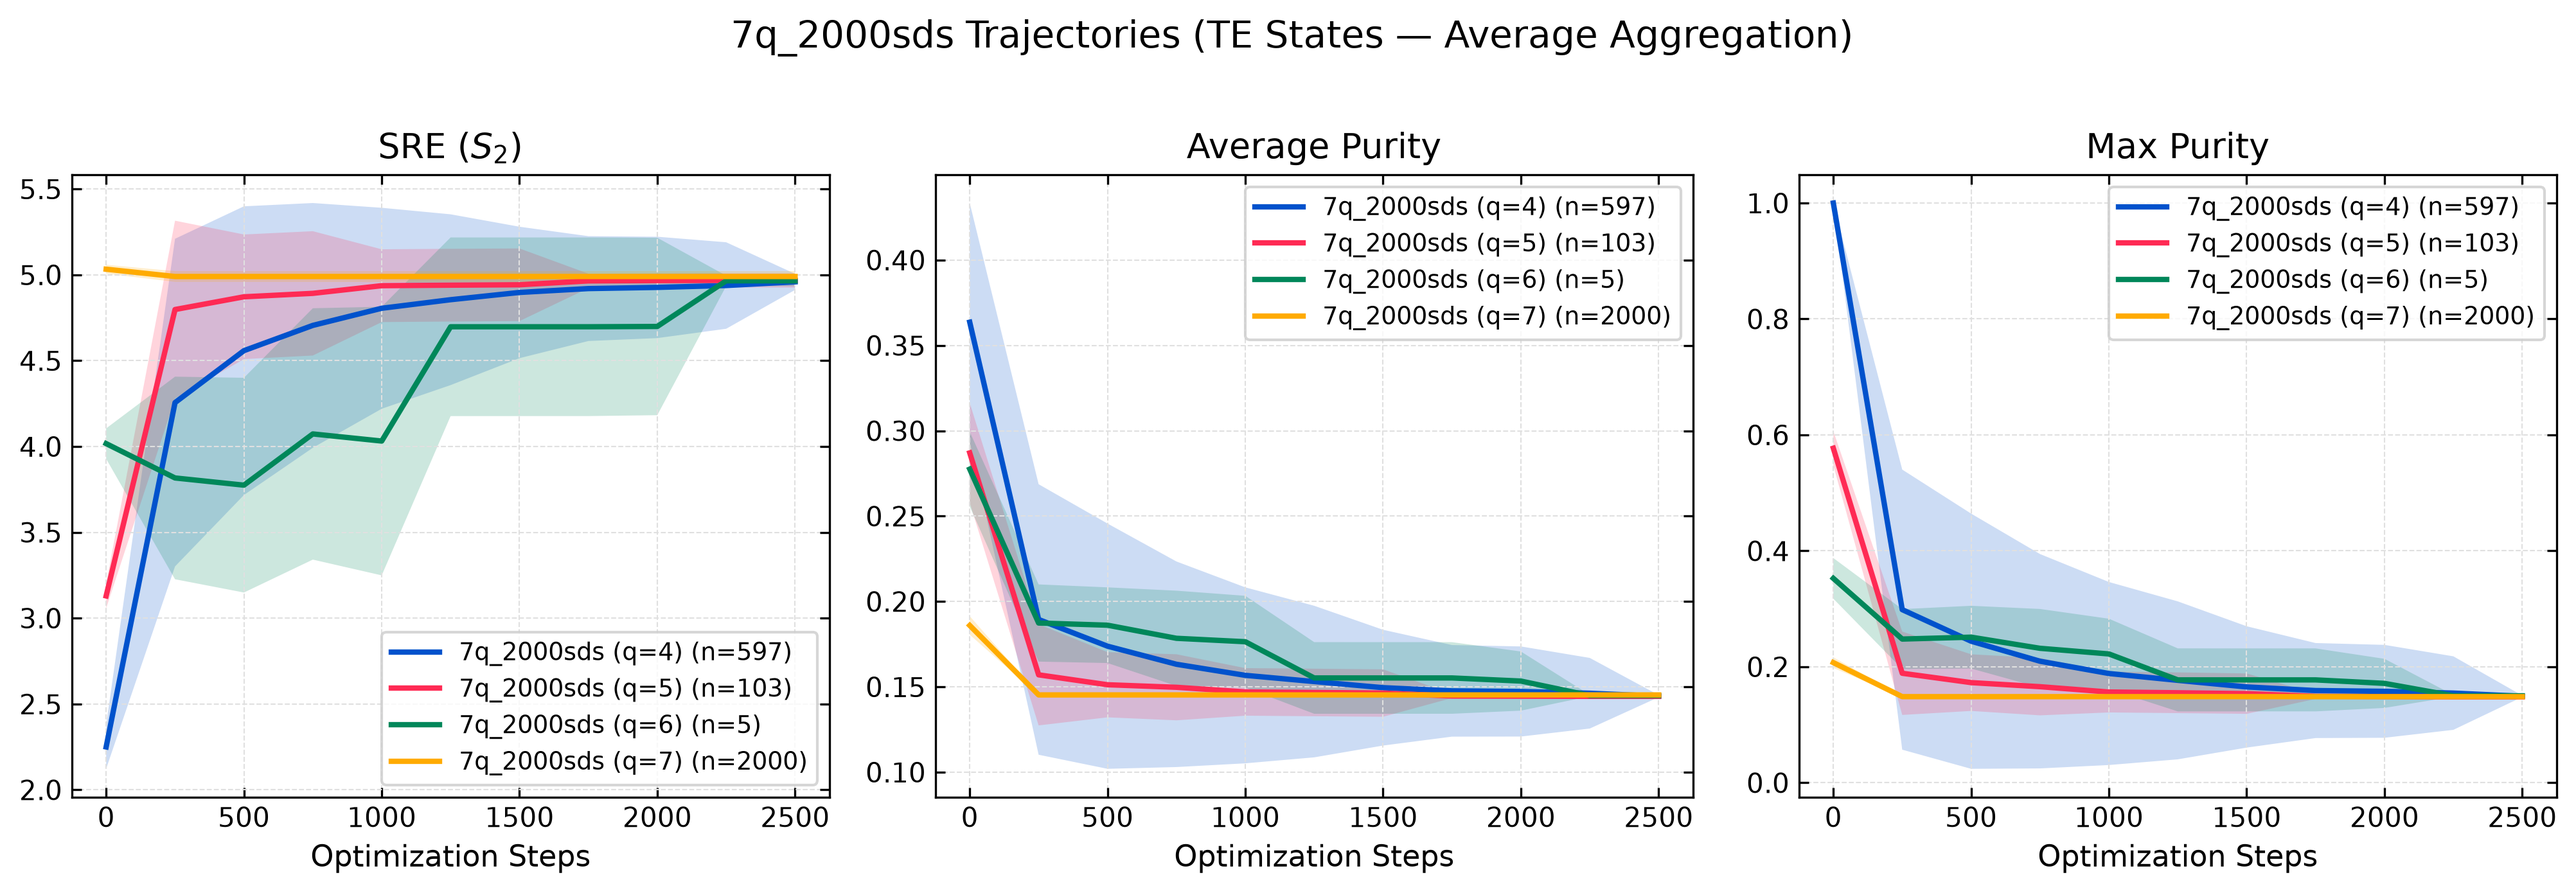
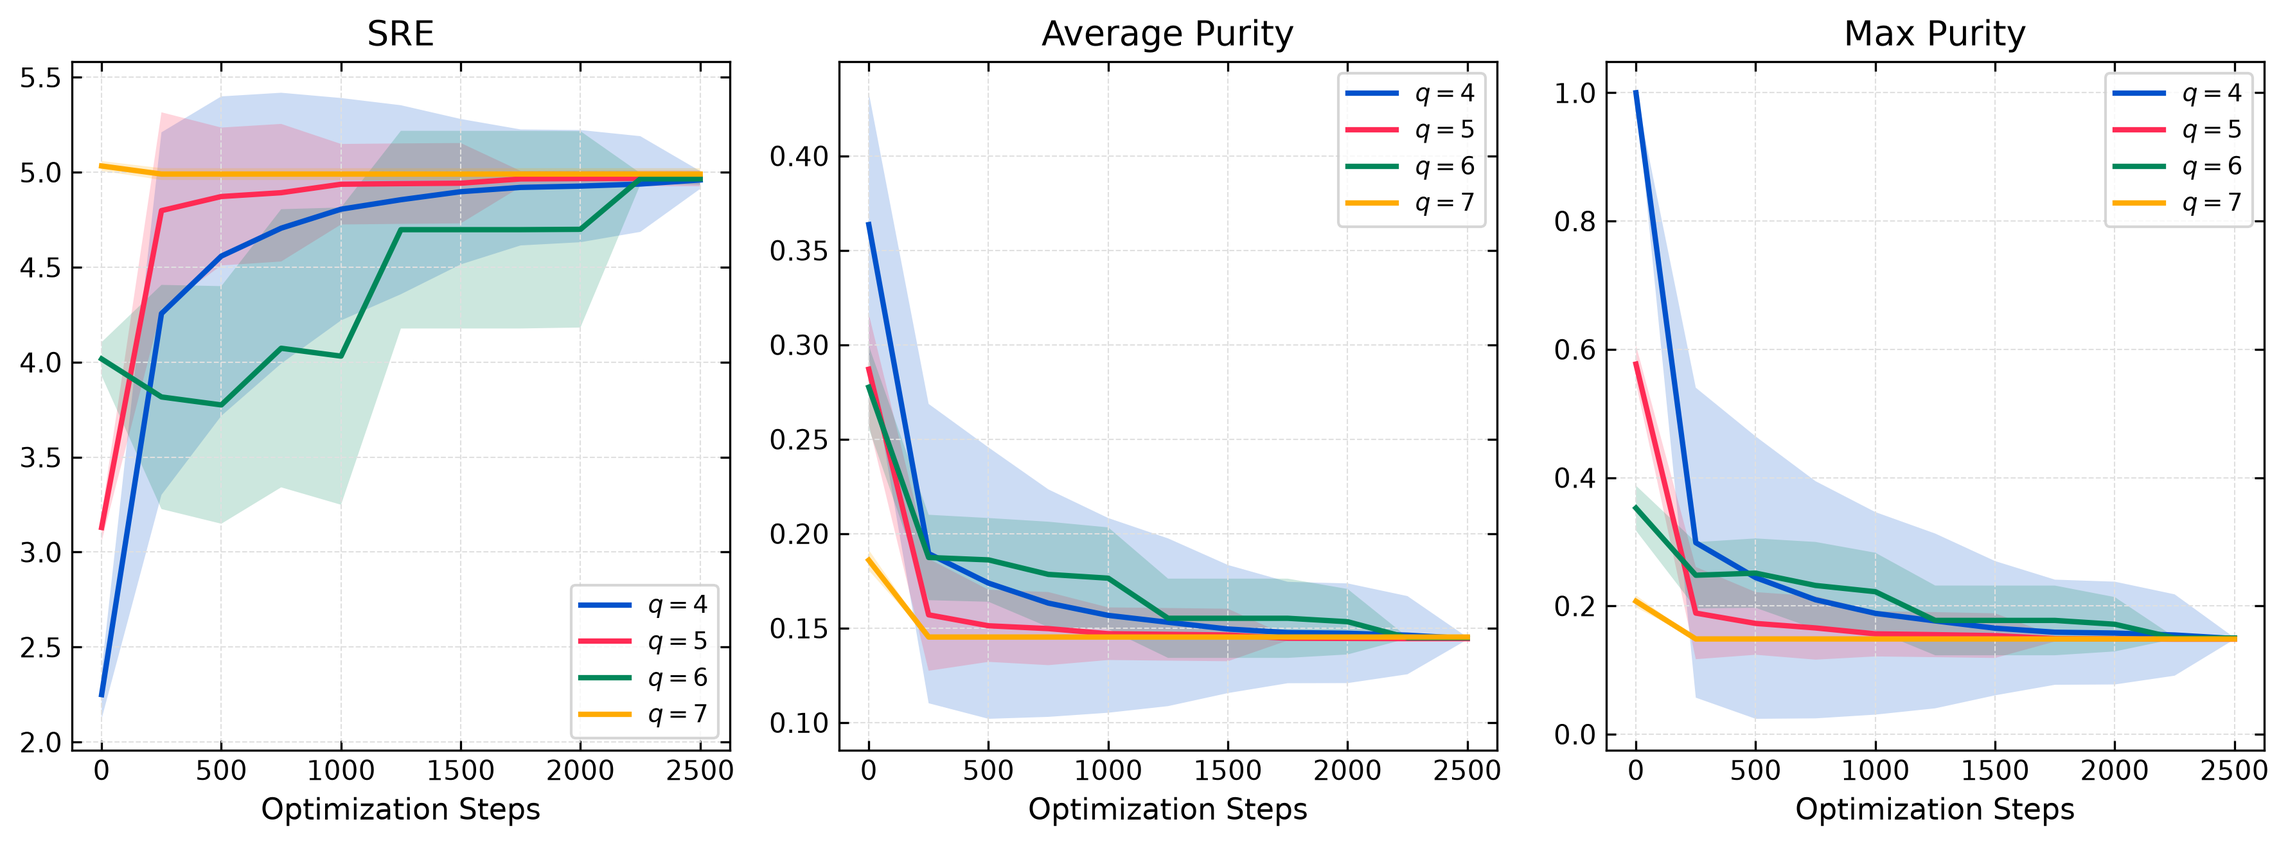
style(plots): align plot styling, fonts, and labels 100% with new_plotting_trajectories_reflected_histograms.py

Changed region(s): [[0.0, 0.0, 0.9975, 0.9962], [0.9663, 0.5604, 0.9975, 0.6226]]

diff --git a/generate_matplotlib_configs.py b/generate_matplotlib_configs.py
@@ -61,12 +61,10 @@ def parse_filename_info(filepath):
             'sds': int(sds),
             'stps': int(stps),
             'gap': int(gap),
-            'label': f"{qbt}q_{sds}sds (q={gap})",
-            'short_label': f"q={gap}",
+            'label': f"$q={gap}$",
             'tag': f"{qbt}q_{sds}sds"
         }
     
-    # Fallback pattern
     m_gap = re.search(r'(\d+)\.pkl$', filename)
     gap_val = int(m_gap.group(1)) if m_gap else 0
     return {
@@ -74,8 +72,7 @@ def parse_filename_info(filepath):
         'sds': 2000,
         'stps': 2500,
         'gap': gap_val,
-        'label': f"7q_2000sds (q={gap_val})",
-        'short_label': f"q={gap_val}",
+        'label': f"$q={gap_val}$",
         'tag': "7q_2000sds"
     }
 
@@ -96,25 +93,23 @@ def load_dataset_files(data_dir="zip7"):
     return loaded
 
 # -------------------------------------------------------------------
-# Config 1 & Config 2: Line Chart for TE / non-TE States (All Metrics)
+# Config 1 & Config 2: Line Chart matching new_plotting_trajectories_reflected_histograms.py
 # -------------------------------------------------------------------
 def plot_linechart_config(loaded_data, filter_mode="TE States", output_path="matplotlib_linechart.png"):
     selected_metrics = ["sre", "average_purity", "max_purity"]
     metric_map = {
-        "sre": r"$\text{SRE } (S_2)$",
-        "average_purity": r"$\text{Average Purity}$",
-        "max_purity": r"$\text{Max Purity}$"
+        "sre": "SRE",
+        "average_purity": "Average Purity",
+        "max_purity": "Max Purity"
     }
-    colors = ["#0052CC", "#FF2A54", "#00875A", "#FFAB00", "#6554C0", "#00B8D9"]
+    colors = ["#0052CC", "#FF2A54", "#00875A", "#FFAB00", "#6554C0", "#00B8D9", "#FF5630", "#36B37E"]
 
     n_plots = len(selected_metrics)
-    fig, axes = plt.subplots(1, n_plots, figsize=(4.5 * n_plots, 4.5), squeeze=False, facecolor="white")
-
-    tag_str = loaded_data[0][1]['tag'] if loaded_data else "7q_2000sds"
+    fig, axes = plt.subplots(1, n_plots, figsize=(4 * n_plots, 4.5), sharex=True, squeeze=False, facecolor="white")
 
     for col_idx, metric in enumerate(selected_metrics):
         ax = axes[0, col_idx]
-        ax.set_title(metric_map[metric], fontsize=13, fontweight="bold")
+        ax.set_title(metric_map[metric], fontsize=13)
 
         for data_idx, (data, info, file_path) in enumerate(loaded_data):
             final_states = data["final_states"]
@@ -145,14 +140,14 @@ def plot_linechart_config(loaded_data, filter_mode="TE States", output_path="mat
 
             steps = np.arange(max_len) * step_mes
 
+            # Average aggregation
             center = np.nanmean(arr, axis=0)
             std = np.nanstd(arr, axis=0)
             lower_bound = center - std
             upper_bound = center + std
 
             color = colors[data_idx % len(colors)]
-            label_text = f"{info['label']} (n={len(indices)})"
-            ax.plot(steps, center, label=label_text, color=color, linewidth=2.0)
+            ax.plot(steps, center, label=info['label'], color=color, linewidth=2.0)
             ax.fill_between(steps, lower_bound, upper_bound, color=color, alpha=0.2, edgecolor="none")
 
         ax.set_xlabel(r"$\text{Optimization Steps}$", fontsize=11)
@@ -162,27 +157,23 @@ def plot_linechart_config(loaded_data, filter_mode="TE States", output_path="mat
         ax.grid(True, linestyle="--", linewidth=0.5, color="#e0e0e0")
         ax.legend(frameon=True, fontsize=9, loc="best")
 
-    plt.suptitle(f"{tag_str} Trajectories ({filter_mode} — Average Aggregation)", fontsize=14, y=1.02)
     fig.tight_layout()
     fig.savefig(output_path, dpi=300, bbox_inches="tight")
     plt.close(fig)
     print(f"Saved: {output_path}")
 
 # -------------------------------------------------------------------
-# Config 3: TE vs non-TE SRE (2 Subplots Upright Stack with hspace=0)
+# Config 3: TE vs non-TE SRE matching new_plotting_trajectories_reflected_histograms.py (hspace=0)
 # -------------------------------------------------------------------
 def plot_te_vs_non_te_sre_config(loaded_data, output_path="matplotlib_config3_te_vs_non_te_sre.png"):
     fig, (ax1, ax2) = plt.subplots(2, 1, figsize=(9.0, 7.5), sharex=True, facecolor="white", gridspec_kw={"hspace": 0})
     ax1.set_facecolor("white")
     ax2.set_facecolor("white")
 
-    tag_str = loaded_data[0][1]['tag'] if loaded_data else "7q_2000sds"
-
     x_labels = []
     init_centers, init_errs, init_counts = [], [], []
     te_centers, te_errs, te_counts = [], [], []
     non_te_centers, non_te_errs, non_counts = [], [], []
-    te_props_list, non_te_props_list = [], []
 
     global_init, global_te, global_non_te = [], [], []
 
@@ -221,16 +212,6 @@ def plot_te_vs_non_te_sre_config(loaded_data, output_path="matplotlib_config3_te
         non_te_errs.append(np.std(non_te_vals) if len(non_te_vals) > 1 else 0.0)
         non_counts.append(len(non_te_vals))
 
-        tc = len(te_vals)
-        nc = len(non_te_vals)
-        tot = tc + nc
-        if tot > 0:
-            te_props_list.append(tc / tot)
-            non_te_props_list.append(nc / tot)
-        else:
-            te_props_list.append(0.0)
-            non_te_props_list.append(0.0)
-
     # All Combined
     if global_init:
         x_labels.append(r"$\mathrm{All\ Combined}$")
@@ -246,42 +227,32 @@ def plot_te_vs_non_te_sre_config(loaded_data, output_path="matplotlib_config3_te
         non_te_errs.append(np.std(global_non_te) if len(global_non_te) > 1 else 0.0)
         non_counts.append(len(global_non_te))
 
-        tot = len(global_te) + len(global_non_te)
-        if tot > 0:
-            te_props_list.append(len(global_te) / tot)
-            non_te_props_list.append(len(global_non_te) / tot)
-        else:
-            te_props_list.append(0.0)
-            non_te_props_list.append(0.0)
-
     x = np.arange(len(x_labels))
     width = 0.25
     ekw = dict(elinewidth=0.8, capthick=0.8)
 
-    # Top Subplot: SRE
-    b_init = ax1.bar(x - width, init_centers, width, yerr=init_errs, capsize=3,
-                     label=r"$\text{Initial States}$", color="mediumseagreen", edgecolor="black", linewidth=0.5, error_kw=ekw)
-    b_te = ax1.bar(x, te_centers, width, yerr=te_errs, capsize=3,
-                   label=r"$\text{Final TE States}$", color="royalblue", edgecolor="black", linewidth=0.5, error_kw=ekw)
-    b_non_te = ax1.bar(x + width, non_te_centers, width, yerr=non_te_errs, capsize=3,
-                       label=r"$\text{Final non-TE States}$", color="crimson", edgecolor="black", linewidth=0.5, error_kw=ekw)
-
-    ax1.bar_label(b_init, labels=[f"n={n}" for n in init_counts], fontsize=7, padding=3, color="black")
-    ax1.bar_label(b_te, labels=[f"n={n}" for n in te_counts], fontsize=7, padding=5, color="black")
-    ax1.bar_label(b_non_te, labels=[f"n={n}" for n in non_counts], fontsize=7, padding=0, color="black")
-
+    # Subplot 1 (Top): SRE Values
+    ax1.bar(x - width, init_centers, width, yerr=init_errs, capsize=3, label=r"$\text{Initial SRE}$", color="mediumseagreen", edgecolor="black", linewidth=0.5, error_kw=ekw)
+    ax1.bar(x, te_centers, width, yerr=te_errs, capsize=3, label=r"$\text{Final TE SRE}$", color="royalblue", edgecolor="black", linewidth=0.5, error_kw=ekw)
+    ax1.bar(x + width, non_te_centers, width, yerr=non_te_errs, capsize=3, label=r"$\text{Final non-TE SRE}$", color="crimson", edgecolor="black", linewidth=0.5, error_kw=ekw)
     ax1.set_ylabel(r"$\text{SRE } (S_2)$", fontsize=11)
-    ax1.set_title(f"{tag_str} TE vs non-TE SRE and State Proportions", fontsize=13, fontweight="bold")
-    ax1.spines["top"].set_visible(True)
-    ax1.spines["right"].set_visible(True)
-    ax1.tick_params(direction="in", top=True, right=True, which="both")
     ax1.grid(True, linestyle="--", linewidth=0.5, color="#e0e0e0", axis="y")
     ax1.legend(frameon=True, fontsize=9, loc="upper right")
 
-    # Bottom Subplot: Proportions
-    width_prop = 0.35
-    ax2.bar(x - width_prop/2, te_props_list, width_prop, label=r"$\text{TE States}$", color="royalblue", edgecolor="black", linewidth=0.5, alpha=0.9)
-    ax2.bar(x + width_prop/2, non_te_props_list, width_prop, label=r"$\text{non-TE States}$", color="crimson", edgecolor="black", linewidth=0.5, alpha=0.9)
+    # Subplot 2 (Bottom): Upright Proportions
+    te_props_list = []
+    non_te_props_list = []
+    for tc, nc in zip(te_counts, non_counts):
+        tot = tc + nc
+        if tot > 0:
+            te_props_list.append(tc / tot)
+            non_te_props_list.append(nc / tot)
+        else:
+            te_props_list.append(0.0)
+            non_te_props_list.append(0.0)
+
+    ax2.bar(x - width/2, te_props_list, width, label=r"$\text{TE States}$", color="royalblue", edgecolor="black", linewidth=0.5, alpha=0.9)
+    ax2.bar(x + width/2, non_te_props_list, width, label=r"$\text{non-TE States}$", color="crimson", edgecolor="black", linewidth=0.5, alpha=0.9)
 
     ax2.set_xticks(x)
     ax2.set_xticklabels(x_labels, fontsize=9.5)
@@ -290,9 +261,6 @@ def plot_te_vs_non_te_sre_config(loaded_data, output_path="matplotlib_config3_te
     ax2.set_ylim(0, 1.05)
     ax2.set_yticks([0.0, 0.25, 0.50, 0.75, 1.00])
     ax2.set_yticklabels(["0%", "25%", "50%", "75%", "100%"], fontsize=9)
-    ax2.spines["top"].set_visible(True)
-    ax2.spines["right"].set_visible(True)
-    ax2.tick_params(direction="in", top=True, right=True, which="both")
     ax2.grid(True, linestyle="--", linewidth=0.5, color="#e0e0e0", axis="y")
     ax2.legend(frameon=True, fontsize=9, loc="upper right")
 
